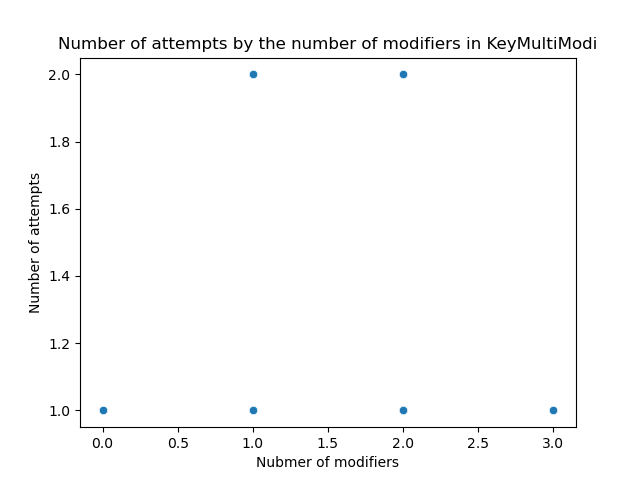
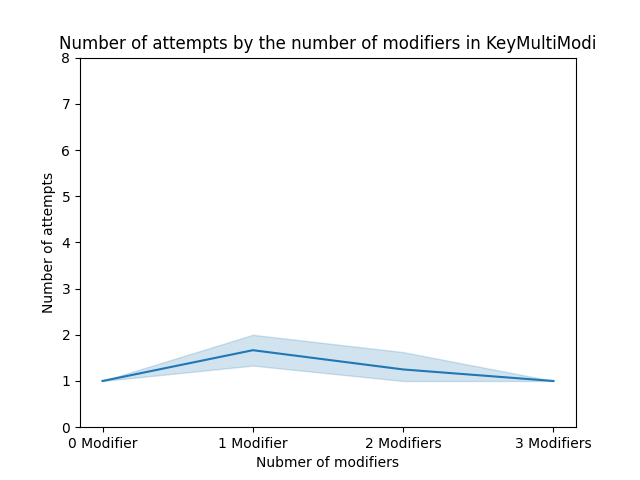
better graphe

diff --git a/server/scripts/sendToLogger.js b/server/scripts/sendToLogger.js
@@ -39,7 +39,7 @@ function logAll(data, participantID, experimentType) {
     csv = header.join(", ") + '\n' + csv;
     var http = new XMLHttpRequest();
     var encodedcsv = encodeURIComponent(csv);
-    filename = types[experimentType] + participantID;
+    filename = types[experimentType] + participantID + "_FULL";
 
     http.open("POST", dirname+"logall?filename=" + filename + "&csv=" + encodedcsv, true);
     http.setRequestHeader("Content-type", "application/x-www-form-urlencoded");

diff --git a/server/logs/analyse.py b/server/logs/analyse.py
@@ -1,7 +1,8 @@
+import os
+import numpy as np
 import seaborn as sns
 import matplotlib.pyplot as plt
 import pandas as pd
-import pingouin as pg
 
 # Load csv
 header = [
@@ -29,59 +30,121 @@ header = [
         "targetDist", "keyboardLayout", "mouseType"
     ]
 
-df = pd.read_csv("all.csv",skiprows=1, names=header, na_values="-1")
+path = os.path.dirname(os.path.abspath(__file__))
+df = pd.read_csv(path + "/all.csv",skiprows=1, names=header, na_values="-1")
+df = df.sort_values('Size')
+df = df.sort_values('NbModi')
 # df.fillna('', inplace=True)
 
 finalExecTime = ["totalExecTime1", "totalExecTime2", "totalExecTime3"]
 df['finalExecTime'] = df[finalExecTime].sum(axis=1)
 
-# df['allModifiers'] = df.modifiers1 + df.modifiers2 + df.modifiers3
-# print(df.allModifiers)
+df.Size = df.Size.replace({1:"Tiny", 2:"Small", 3:"Medium", 4:"Large"})
+df.NbModi = df.NbModi.replace({0:"0 Modifier" ,1:"1 Modifier", 2:"2 Modifiers", 3:"3 Modifiers"})
+df.modifiers1 = df.modifiers1.replace({'Option':'Alt/Option', 'CMD':'Ctrl/CMD', 'Alt':'Alt/Option', 'Ctrl':'Ctrl/CMD'})
+df.modifiers2 = df.modifiers2.replace({'Option':'Alt/Option', 'CMD':'Ctrl/CMD', 'Alt':'Alt/Option', 'Ctrl':'Ctrl/CMD'})
+df.modifiers3 = df.modifiers3.replace({'Option':'Alt/Option', 'CMD':'Ctrl/CMD', 'Alt':'Alt/Option', 'Ctrl':'Ctrl/CMD'})
+
+def remove_outliers(df, col):
+    return df[np.abs(df[col] - df[col].mean()) <= (3*df[col].std())]
 
 ########## ALL ##########
 
 # All_Size_mouseClick
-sns.scatterplot(x="Size", y="mouseClick1", data=df, label="mouseClick1", color="r")
-sns.scatterplot(x="Size", y="mouseClick2", data=df, label="mouseClick2", color="g")
+data1 = remove_outliers(df, 'mouseClick1')
+data2 = remove_outliers(df, 'mouseClick2')
+
+sns.lineplot(
+    x="Size", 
+    y="mouseClick1", 
+    data=data1,
+    label="mouseClick1", 
+    color="r",
+    )
+sns.lineplot(
+    x="Size", 
+    y="mouseClick2", 
+    data=data2,
+    label="mouseClick2", 
+    color="g",
+    )
 plt.title("Mouse click time by the size")
 plt.ylabel('time (s)')
 plt.xlabel('Size')
+plt.ylim(0, 8)
 plt.legend()
-plt.savefig('graphs/All_Size_mouseClick.png')
+plt.savefig(path + '/graphs/All_Size_mouseClick.png')
 # plt.show()
 plt.clf()
 
 ########## KEY ##########
 
 #### KeyMultiModi ####
+data = df[(df.DesignName == 'KeyMultiModi')]
+data1 = remove_outliers(data, 'finalExecTime')
+data2 = remove_outliers(data, 'nbOfAttempts1')
 
 #KeyMultiModi_NbModi_finalExecTime
-sns.scatterplot(x="NbModi", y="finalExecTime", data=df[(df.DesignName == 'KeyMultiModi')],)
+sns.lineplot(
+    x="NbModi", 
+    y="finalExecTime", 
+    data=data1
+    )
 plt.title("Execution time by the number of modifier in KeyMultiModi")
 plt.ylabel('time (s)')
 plt.xlabel('Number of modifiers')
-plt.savefig('graphs/KeyMultiModi_NbModi_finalExecTime.png')
+plt.ylim(0, 8)
+plt.savefig(path + '/graphs/KeyMultiModi_NbModi_finalExecTime.png')
 plt.clf()
 
 #KeyMultiModi_NbModi_nbOfAttempts1
-sns.scatterplot(x="NbModi", y="nbOfAttempts1", data=df[(df.DesignName == 'KeyMultiModi')],)
+sns.lineplot(
+    x="NbModi", 
+    y="nbOfAttempts1", 
+    data=data2
+    )
 plt.title("Number of attempts by the number of modifiers in KeyMultiModi")
 plt.ylabel('Number of attempts')
 plt.xlabel('Nubmer of modifiers')
-plt.savefig('graphs/KeyMultiModi_NbModi_nbOfAttempts1.png')
+plt.ylim(0, 8)
+plt.savefig(path + '/graphs/KeyMultiModi_NbModi_nbOfAttempts1.png')
 plt.clf()
 
 #### KeyMultiRepeat ####
+data = df[(df.DesignName == 'KeyMultiRepeat')]
+
+data1 = remove_outliers(data, 'totalExecTime1')
+data2 = remove_outliers(data, 'totalExecTime2')
+data3 = remove_outliers(data, 'totalExecTime3')
 
 #KeyMultiRepeat_modifiers123_totalExecTime123
-sns.scatterplot(x="modifiers1", y="totalExecTime1", data=df[(df.DesignName == 'KeyMultiRepeat')], label="first modifier", color="r")
-sns.scatterplot(x="modifiers2", y="totalExecTime2", data=df[(df.DesignName == 'KeyMultiRepeat')], label="second modifier", color="g")
-sns.scatterplot(x="modifiers3", y="totalExecTime3", data=df[(df.DesignName == 'KeyMultiRepeat')], label="third modifier", color="b")
+sns.lineplot(
+    x="modifiers1", 
+    y="totalExecTime1", 
+    data=data1, 
+    label="first modifier", 
+    color="r"
+    )
+sns.lineplot(
+    x="modifiers2", 
+    y="totalExecTime2", 
+    data=data2, 
+    label="second modifier", 
+    color="g"
+    )
+sns.lineplot(
+    x="modifiers3", 
+    y="totalExecTime3", 
+    data=data3, 
+    label="third modifier", 
+    color="b"
+    )
 plt.title("Execution time by the modifiers in KeyMultiRepeat")
 plt.ylabel('time (s)')
 plt.xlabel('Modifier')
+plt.ylim(0, 8)
 plt.legend()
-plt.savefig('graphs/KeyMultiRepeat_modifiers123_totalExecTime123.png')
+plt.savefig(path + '/graphs/KeyMultiRepeat_modifiers123_totalExecTime123.png')
 # plt.show()
 plt.clf()
 
@@ -92,30 +155,66 @@ plt.clf()
 
 #### GestureMultiAngle ####
 
+data1 = df[(df.DesignName == 'GestureMultiAngle') & (df.NbAngle == 1)]
+data2 = df[(df.DesignName == 'GestureMultiAngle') & (df.NbAngle == 2)]
+
+data1 = remove_outliers(data1, 'finalExecTime')
+data2 = remove_outliers(data2, 'finalExecTime')
+
 #GestureMultiAngle_Size_finalExecTime for Gestures
-sns.scatterplot(x="Size", y="finalExecTime", data=df[(df.DesignName == 'GestureMultiAngle') & (df.NbAngle == 1)], color="red", label="1 angle")
-sns.scatterplot(x="Size", y="finalExecTime", data=df[(df.DesignName == 'GestureMultiAngle') & (df.NbAngle == 2)],color="blue", label="2 angles")
+
+sns.lineplot(
+    x="Size", 
+    y="finalExecTime", 
+    data=data1, 
+    color="red", 
+    label="1 angle",
+    )
+sns.lineplot(
+    x="Size", 
+    y="finalExecTime", 
+    data=data2, 
+    color="blue", 
+    label="2 angles",
+    )
 plt.title("Execution time by the size in GestureMultiAngle")
 plt.legend()
 plt.ylabel('time (s)')
 plt.xlabel('Size')
-plt.savefig('graphs/GestureMultiAngle_Size_finalExecTime.png')
+plt.ylim(0, 8)
+plt.savefig(path + '/graphs/GestureMultiAngle_Size_finalExecTime.png')
 # plt.show()
 plt.clf()
 
 
 #### GestureMultiRepeat ####
 
+data1 = df[(df.DesignName == 'GestureMultiRepeat') & (df.Repeat == 1)]
+data2 = df[(df.DesignName == 'GestureMultiRepeat') & (df.Repeat == 2)]
+
+data1 = remove_outliers(data1, 'finalExecTime')
+data2 = remove_outliers(data2, 'finalExecTime')
+
 #GestureMultiRepeat_Size_finalExecTime for Gestures
-sns.scatterplot(x="Size", y="finalExecTime", data=df[(df.DesignName == 'GestureMultiRepeat') & (df.Repeat == 1)], color="red", label="1 repeat")
-sns.scatterplot(x="Size", y="finalExecTime", data=df[(df.DesignName == 'GestureMultiRepeat') & (df.Repeat == 2)],color="blue", label="2 repeats")
+sns.lineplot(
+    x="Size", 
+    y="finalExecTime", 
+    data=df[(df.DesignName == 'GestureMultiRepeat') & (df.Repeat == 1)], 
+    color="red", 
+    label="1 repeat"
+)
+sns.lineplot(
+    x="Size", 
+    y="finalExecTime", 
+    data=df[(df.DesignName == 'GestureMultiRepeat') & (df.Repeat == 2)], 
+    color="blue", 
+    label="2 repeats"
+)
 plt.title("Execution time by the size in GestureMultiRepeat")
 plt.legend()
 plt.ylabel('time (s)')
 plt.xlabel('Size')
-plt.savefig('graphs/GestureMultiRepeat_Size_finalExecTime.png')
+plt.ylim(0, 8)
+plt.savefig(path + '/graphs/GestureMultiRepeat_Size_finalExecTime.png')
 # plt.show()
 plt.clf()
-
-
-
